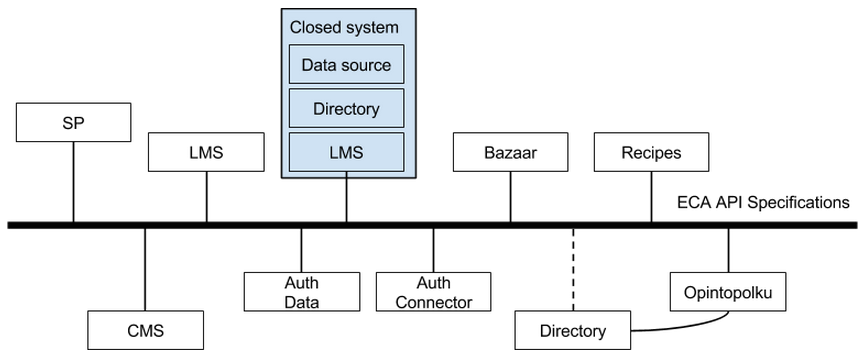
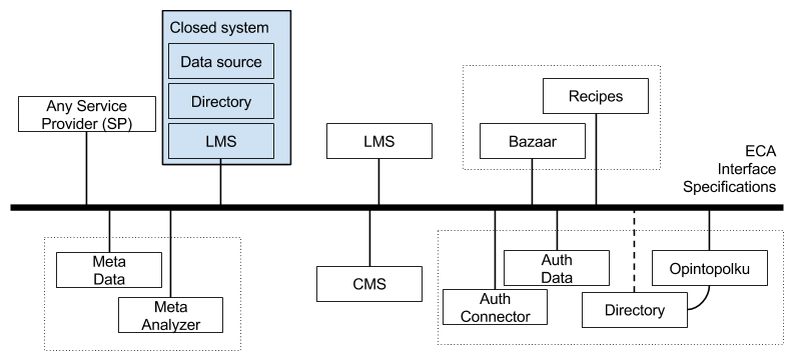
Metadata and analytics

diff --git a/meta/index.rst b/meta/index.rst
@@ -1,0 +1,59 @@
+
+Meta
+****
+
+.. toctree::
+
+  data/index
+  analytics/index
+
+Services may have data which they want to describe to other services.
+Examples of this type of data is metadata of learning materials, links between
+statements in curriculum and learning material, and analytics metrics.
+
+By having common vocabulary, the metadata, between learning materials, curriculum and
+analytics metrics makes it possible to link the requirements and goals to actual user actions
+and learning results. Learning material and analytics metrics are tagged with
+keywords and same keywords are used inside the curriculum.
+
+Usage data may be collected automatically by the systems.
+Collection of data happens by the services, but the data must be accessible for
+services which are analyzing the data. This can be the same service of course,
+but it would be much better to share the data system wide.
+This way all services can see how the user is moving between services in the whole system.
+This data may even be open.
+
+Each service collects and stores the data themselves and then periodically publishes
+the data to central repository. Data is then queried back from central repository to
+services which need it. Central repository behaves like a cache for the data and it
+is stored there for only certain amount of time.
+
+Each service collects the data and pushes it to central repository in realtime.
+Central repository works as a publish/subscribe message bus and publishes the data
+to all listening parties. Data is not stored in the repository.
+
+Each service has common API which everyone else can use to query for metadata and metrics.
+There would be retention policies how long the data must be accessible in the API.
+
+The repository for all metadata and analytics metrics could be key/value store with
+graph and timeseries functionalities. Meaning the data can have complex hierarchies
+and values can contain value timeseries data.
+The metadata repository can be updated by everyone and it keeps track who is doing what and why.
+
+Requirements for the repository:
+
+* must have a database which stores the data for certain period
+* must have REST API to query the data (with public and open part)
+* must have publish/subscribe API for realtime message passing
+* must have an API to register services and then it must query periodically the data
+  and publish it in the publish/subscribe API on behalf of the service
+
+Services:
+
+* may connect to the publish/subscribe API
+* may have common API for querying metrics and register to the repository
+* must either connect to the publish/subscribe API or have the common API
+* must register metadata keywords
+
+
+

diff --git a/index.rst b/index.rst
@@ -213,6 +213,19 @@ freely between them.
   Service which produces content in some form.
 
 
+Meta
+----
+
+These are the services which together form the basis of metadata and analytics.
+:doc:`Collection, storing and delivering metadata <meta/index>` about everything in the system.
+
+:doc:`Meta Data <meta/data/index>`
+  Service which stores and delivers metadata between services.
+
+:doc:`Meta Analytics <meta/analytics/index>`
+  Service which analyzes the metadata stored by the Meta Data service.
+
+
 Interfaces
 ==========
 
@@ -241,6 +254,9 @@ These interfaces are not bound by the standard.
 
 :doc:`CMS IF <bazaar/interface>`
   Between :doc:`Bazaar <bazaar/index>` and :doc:`CMS <cms/index>`.
+
+:doc:`Meta IF <meta/data/interface>`
+  Data Service provides an interface to query for user data from Data Providers.
 
 
 Infrastructure

diff --git a/meta/data/index.rst b/meta/data/index.rst
@@ -1,0 +1,10 @@
+
+Meta Data
+*********
+
+.. toctree::
+
+  interface
+
+Service which stores and delivers metadata between other services.
+

diff --git a/meta/analytics/index.rst b/meta/analytics/index.rst
@@ -1,0 +1,6 @@
+
+Meta Analytics
+**************
+
+Analyzes the data stored in :doc:`Meta Data </meta/data/index>` service.
+

diff --git a/sitemap.rst b/sitemap.rst
@@ -7,6 +7,7 @@ Site Map
  index
  story/index
  auth/index
+ meta/index
  bazaar/index
  lms/index
  cms/index

diff --git a/meta/data/interface.rst b/meta/data/interface.rst
@@ -1,0 +1,5 @@
+
+Meta interface
+**************
+
+
